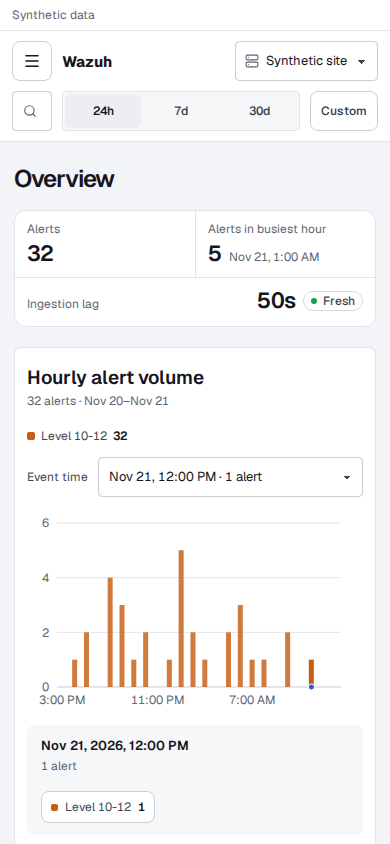
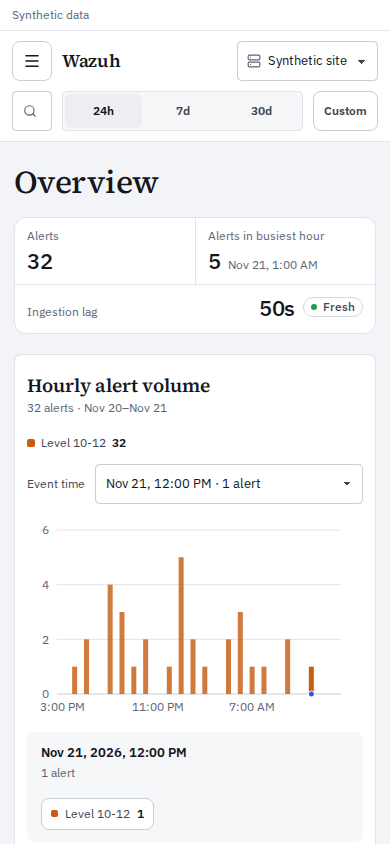
Keep record titles in Plex and refresh the console screenshots.
Incident and chain names stay in the UI sans at 18px. The README captures and the type comparison sheet show Source Serif page titles.

diff --git a/ai-soc/web/src/features/incidents/incident-v2.css b/ai-soc/web/src/features/incidents/incident-v2.css
@@ -37,9 +37,9 @@
 
 .m3-detail > .panel-head h2,
 .m3-detail > h2 {
-    font-size: 16px;
+    font-size: 18px;
     font-weight: 600;
-    letter-spacing: -0.01em;
+    letter-spacing: 0;
 }
 
 .m3-detail h3 {
@@ -1524,7 +1524,7 @@ section[aria-labelledby="incident-detail-heading"] > .panel-head > h2 {
 .m3-detail .panel-head > h2,
 #chain-detail-heading {
     font: 600 18px/1.3 var(--font-ui);
-    letter-spacing: -0.02em;
+    letter-spacing: 0;
 }
 .m3-detail > section > h3,
 .m3-detail > .m3-two-column > section > h3,
